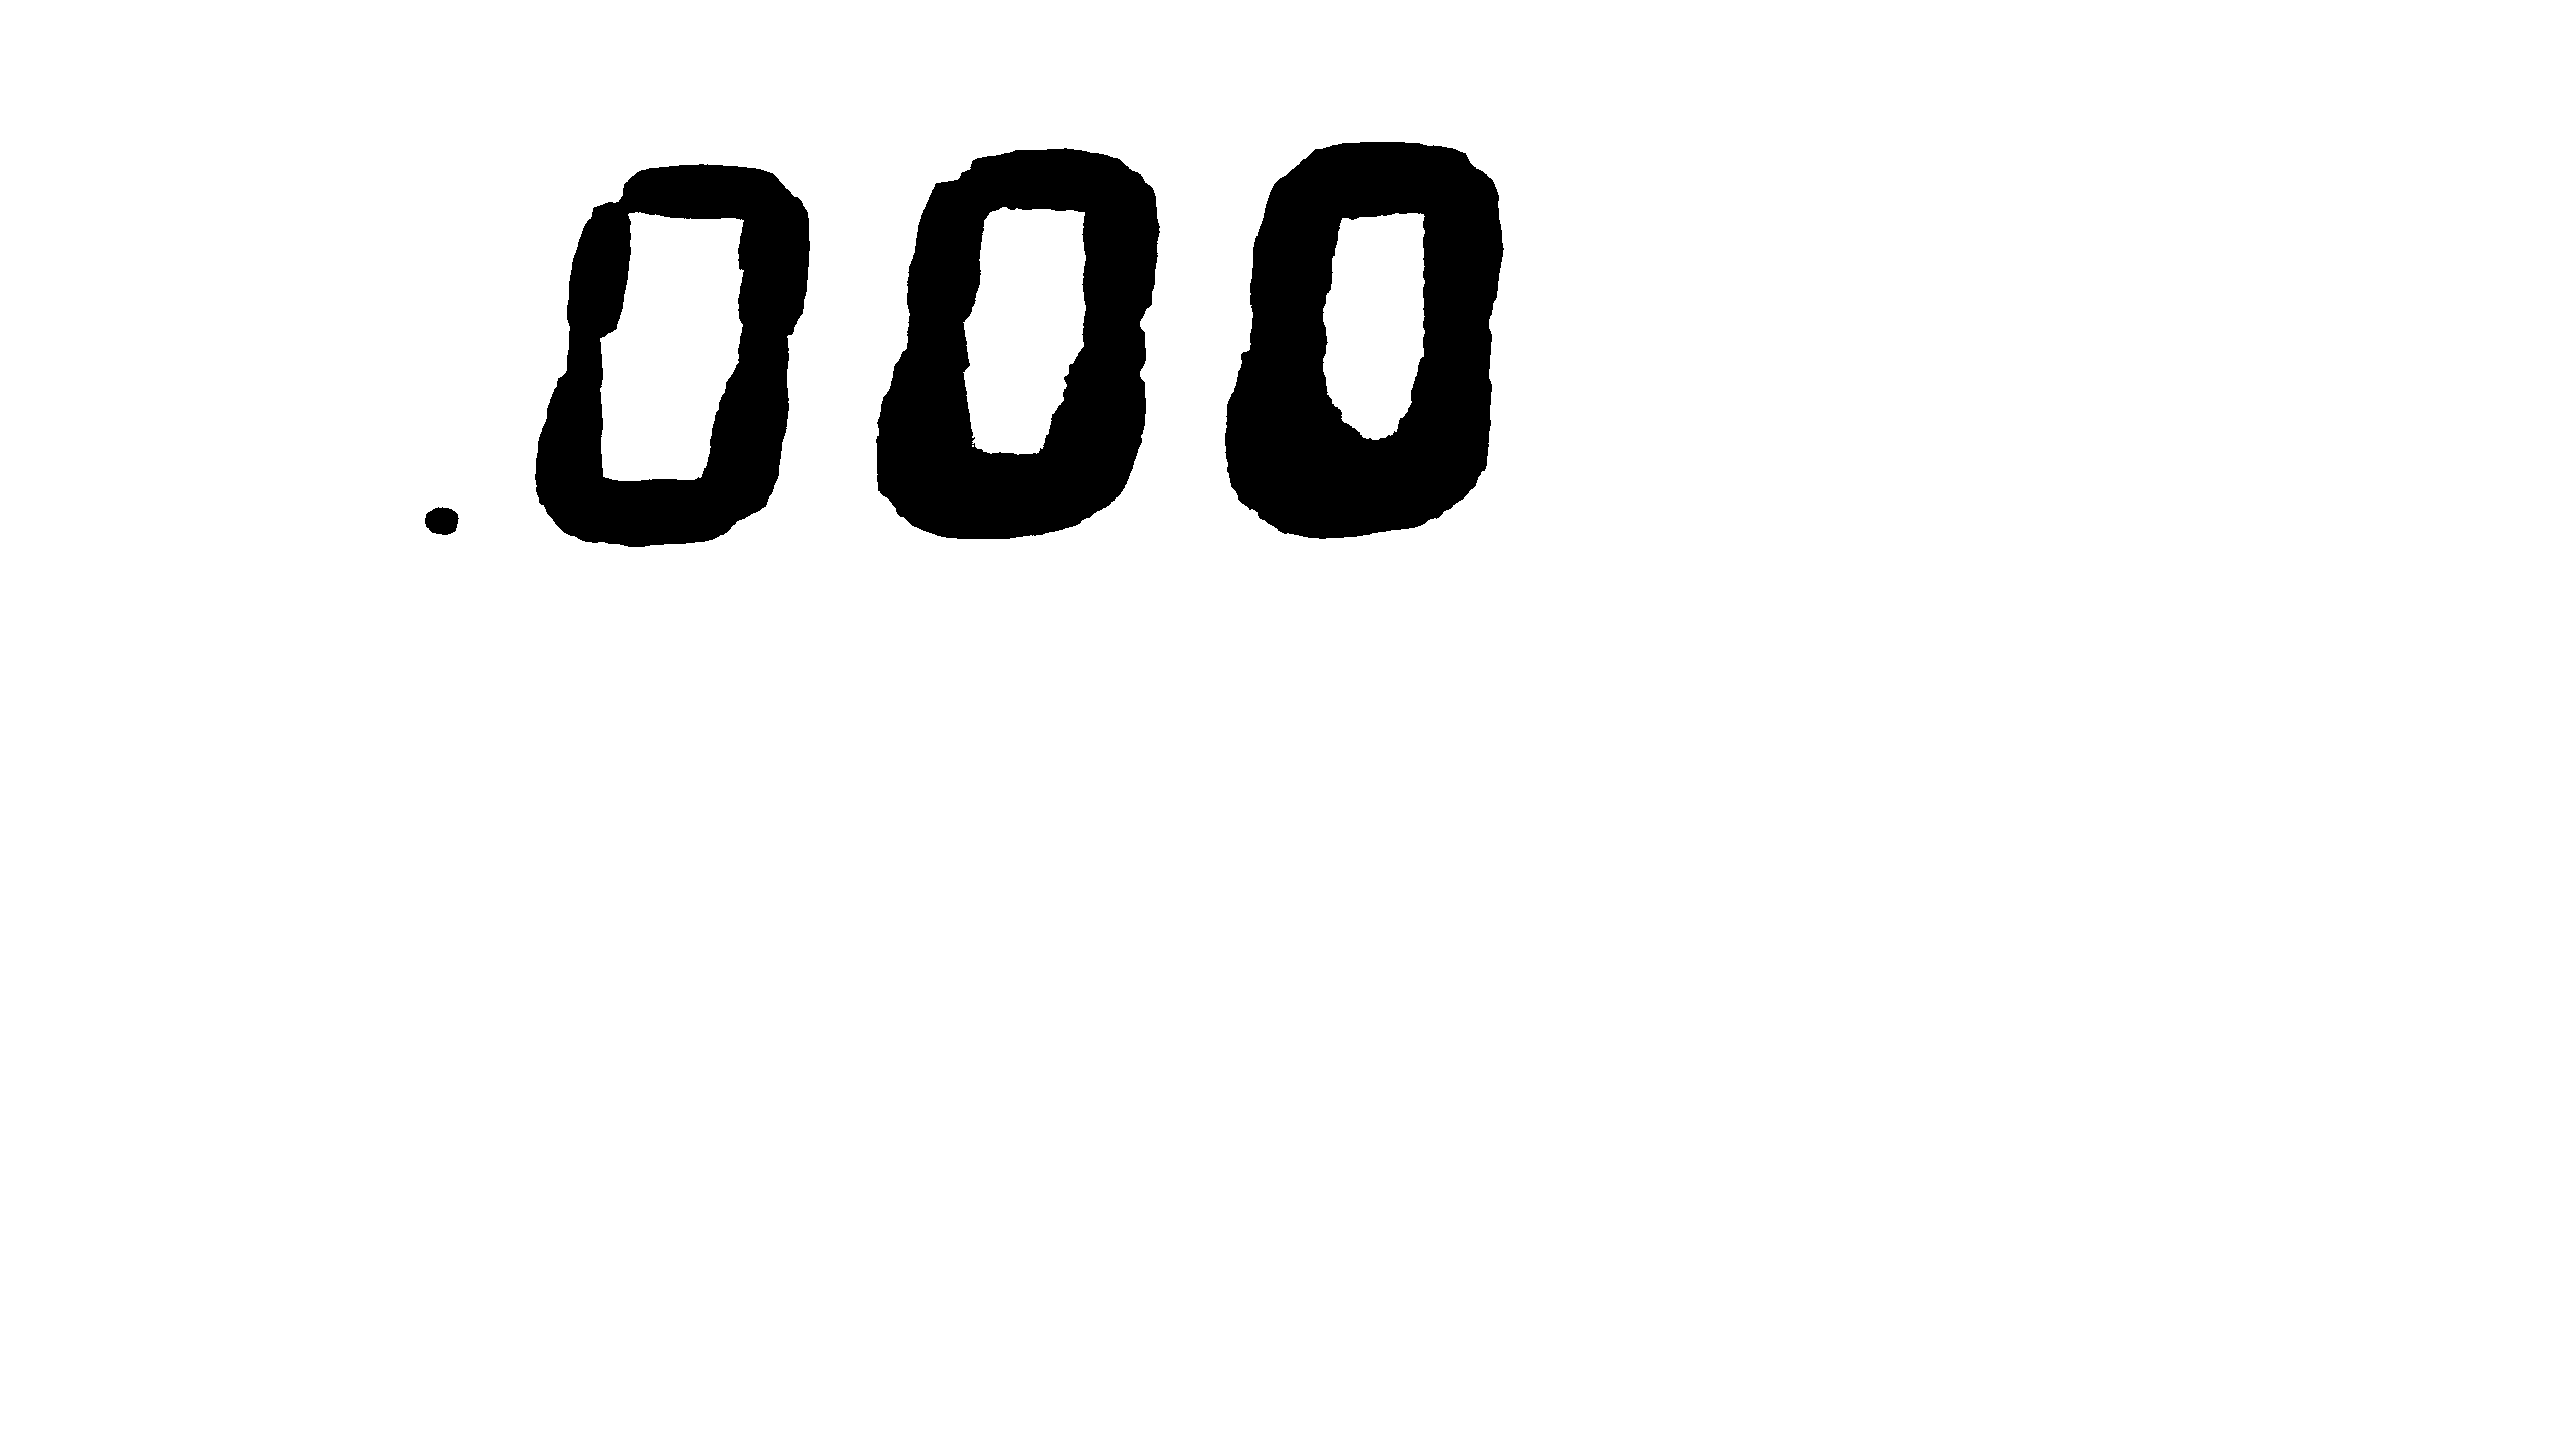
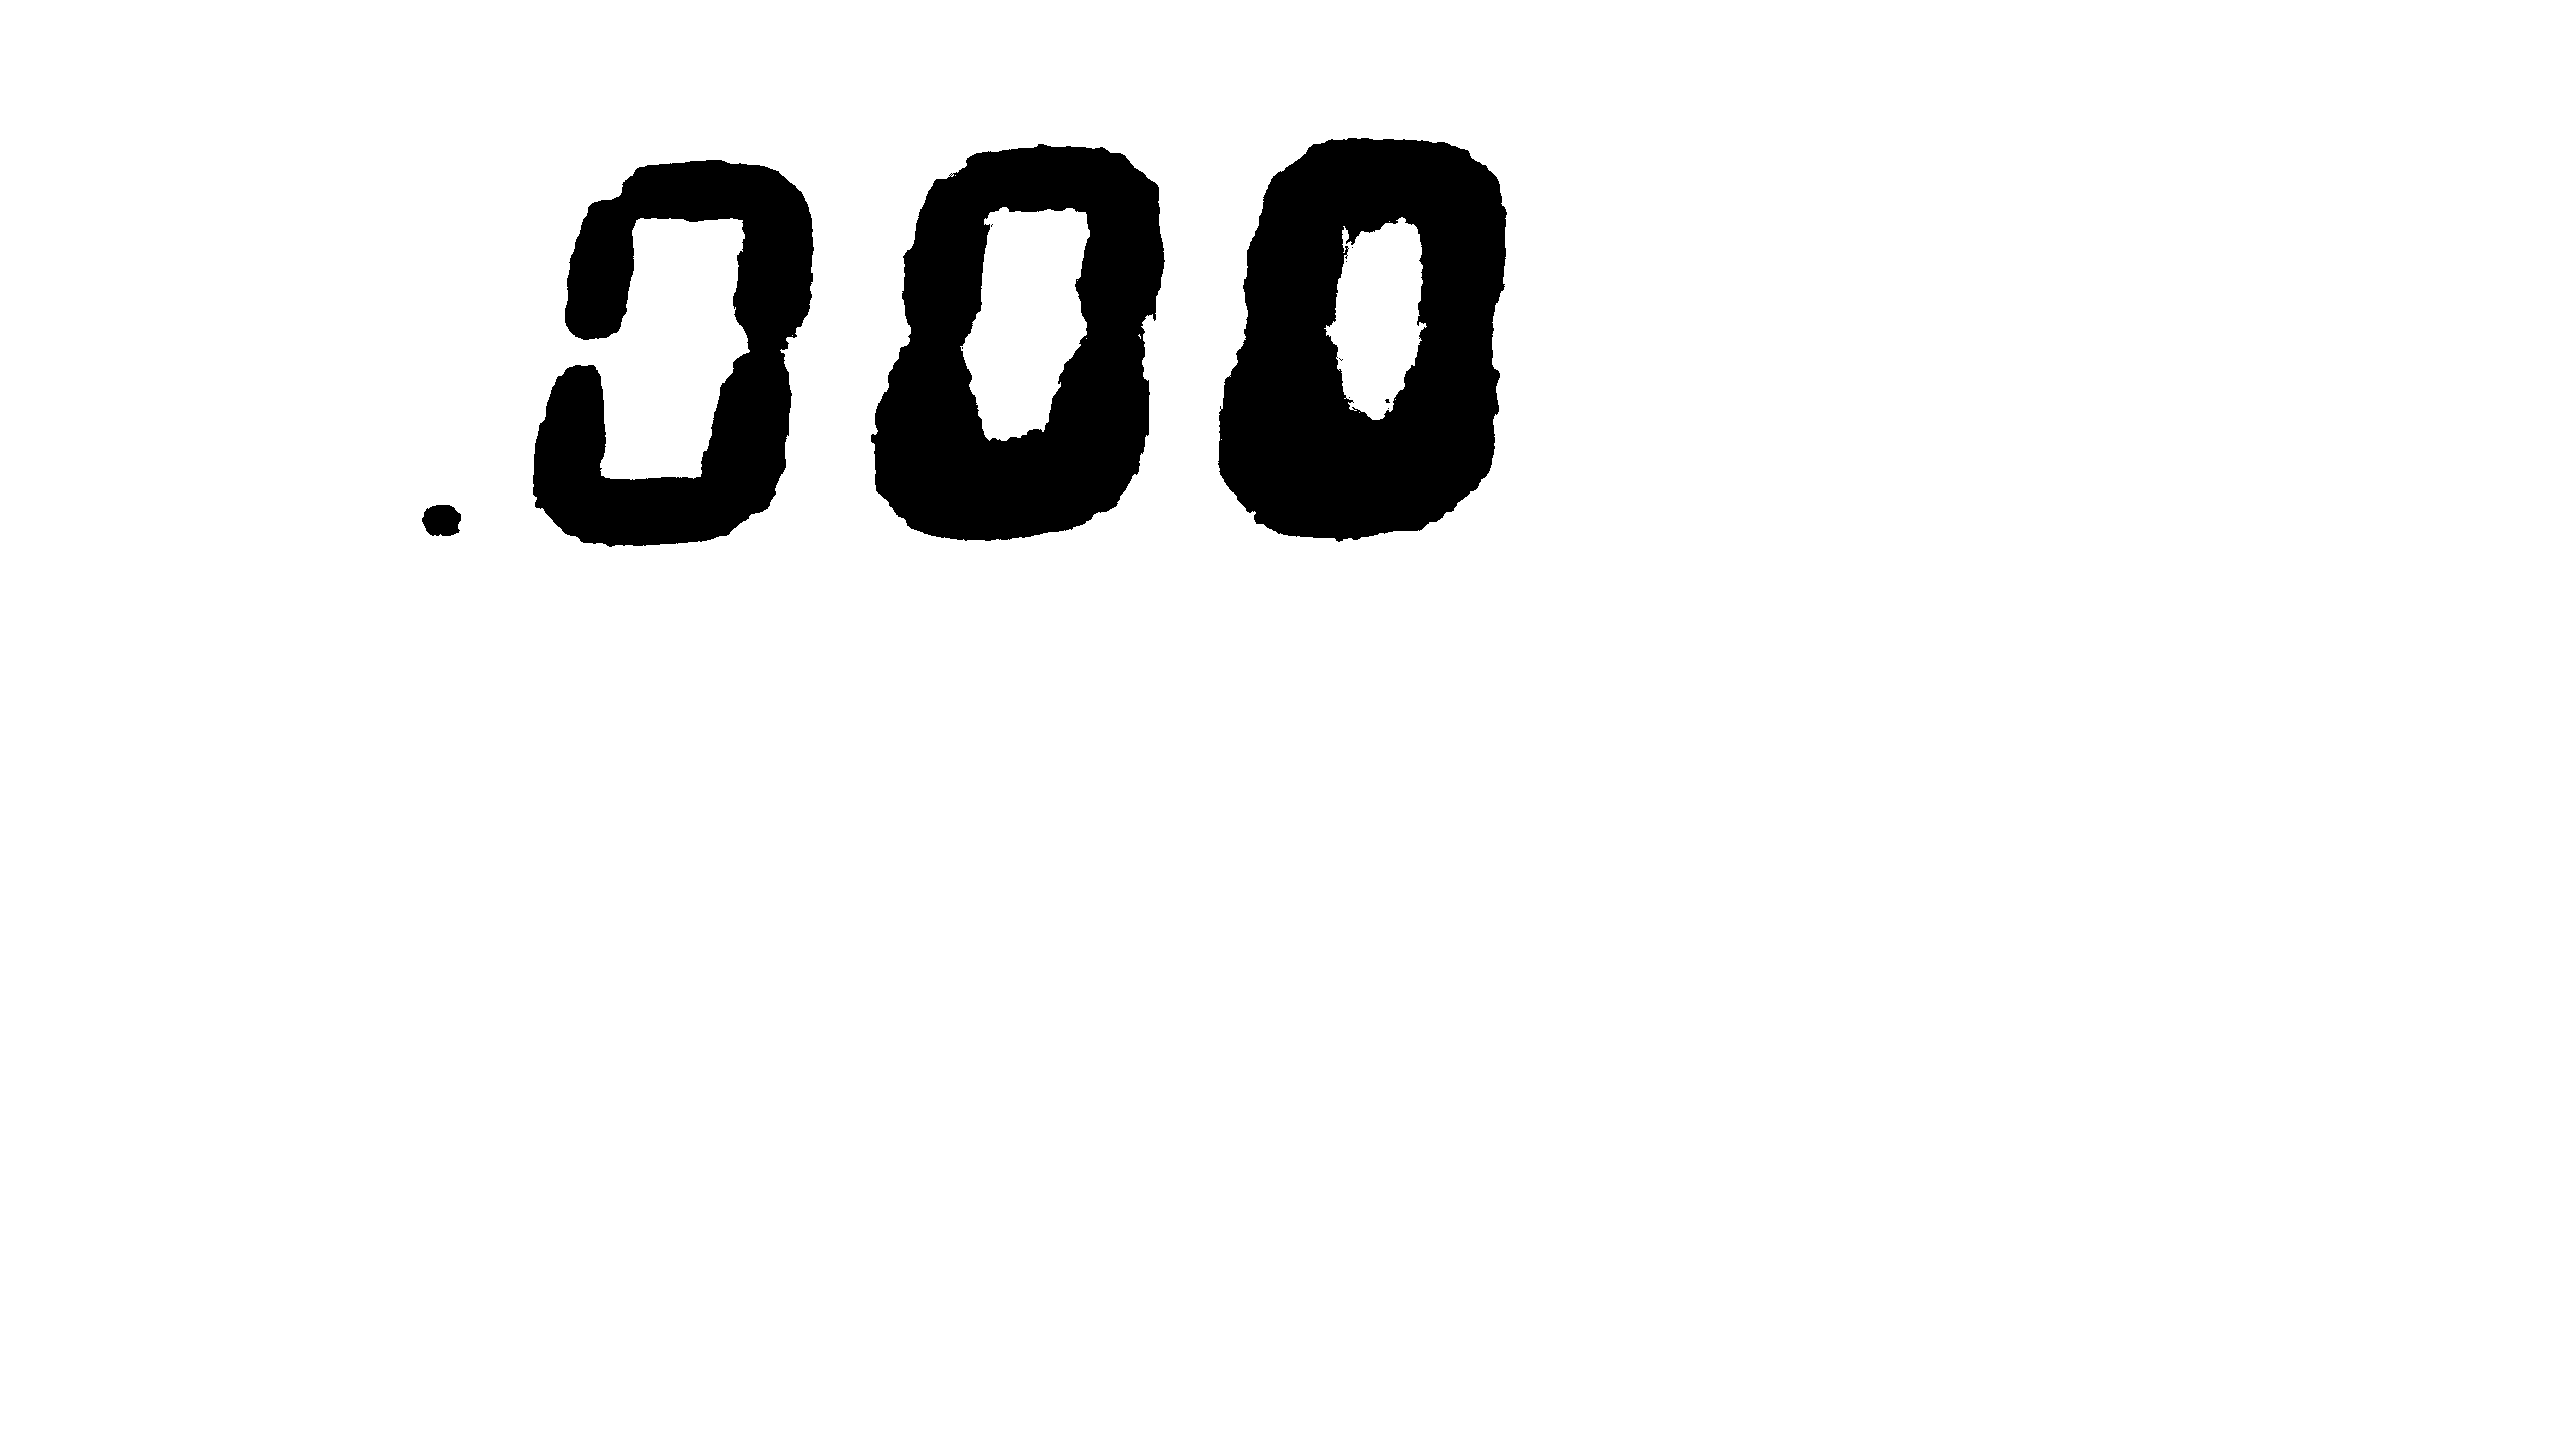
Finetuning ocr

diff --git a/FusorControlServer/src/main/resources/public/js/admin.js b/FusorControlServer/src/main/resources/public/js/admin.js
@@ -32,6 +32,7 @@ function kill() {
 //start a new log
 function startLog() {
     console.log("startlog");
+    document.getElementById("chat").innerText = "";
     request({url: "/protected/admin/startlog", method: "GET"})
             .then(data => {
                 console.log(data);

diff --git a/FusorControlServer/src/main/java/com/eastsideprep/cameras/TessWrapper.java b/FusorControlServer/src/main/java/com/eastsideprep/cameras/TessWrapper.java
@@ -58,9 +58,9 @@ public class TessWrapper {
 
             api.TessBaseAPISetImage(handle, buf, image.getWidth(), image.getHeight(), 3, image.getWidth() * 3);
             api.TessBaseAPISetSourceResolution(handle, 70);
+            api.TessBaseAPISetRectangle(handle, image.getWidth()*5/100, image.getHeight()*5/100, image.getWidth()*65/100, image.getHeight()*40/100);
             Pointer text = api.TessBaseAPIGetUTF8Text(handle);
             // height 8% - 40%, width 15% - 70%
-            //api.TessBaseAPISetRectangle(handle, image.getWidth()*10/100, image.getHeight()*5/100, image.getWidth()*65/100, image.getHeight()*40/100);
 
             int confidence = api.TessBaseAPIMeanTextConf(handle);
             String strText = text.getString(0);
@@ -96,7 +96,8 @@ public class TessWrapper {
 //            System.out.println("");
 //        }
 
-        int cutoff = 225;
+        int cutoff = 170;
+        cutoff *= cutoff;
 
         ByteBuffer bufNew = ByteBuffer.allocateDirect(buf.limit());
         byte[] bytesDest = new byte[bufNew.limit()];
@@ -107,14 +108,17 @@ public class TessWrapper {
                 int val;
                 int valHigher = 0;
                 int valLower = 0;
-                int gap = (int)(height*0.02);
+                int gap = (int)(10);
 
                 val = Byte.toUnsignedInt(bytes[lineStart + (bytespp * pixel) + bytespp - 1]);
+                val *= val;
                 if (y > gap) {
                     valHigher = Byte.toUnsignedInt(bytes[(y - gap) * width * bytespp + (bytespp * pixel) + bytespp - 1]);
+                    valHigher *= valHigher;
                 }
                 if (y < height - gap - 1) {
                     valLower = Byte.toUnsignedInt(bytes[(y + gap) * width * bytespp + (bytespp * pixel) + bytespp - 1]);
+                    valLower *= valLower;
                 }
                 byte valNew = (byte) ((val > cutoff || (valHigher > cutoff && valLower > cutoff)) ? 0 : (byte) 255);
                 bytesDest[lineStartDest + (3 * pixel) + 0] = valNew;

diff --git a/FusorControlServer/src/main/java/com/eastsideprep/cameras/CamStreamer.java b/FusorControlServer/src/main/java/com/eastsideprep/cameras/CamStreamer.java
@@ -168,7 +168,7 @@ public class CamStreamer {
     void extractNumber(BufferedImage image, long millis, SerialDevice sd) {
 
         TessWrapper.Result result = tw.extract(image);
-        if (result.confidence < 30) {
+        if (result.confidence < 80) {
             return;
         }
         String s = result.text;
@@ -181,6 +181,7 @@ public class CamStreamer {
             s = s.replaceAll("[\\p{Cntrl}&&[^\r\n\t]]", "");
             // removes non-printable characters from Unicode
             s = s.replaceAll("\\p{C}", "");
+            s = s.replaceAll("\\. ", ".");
             s = s.trim();
 
             System.out.println("OCR: " + s);
